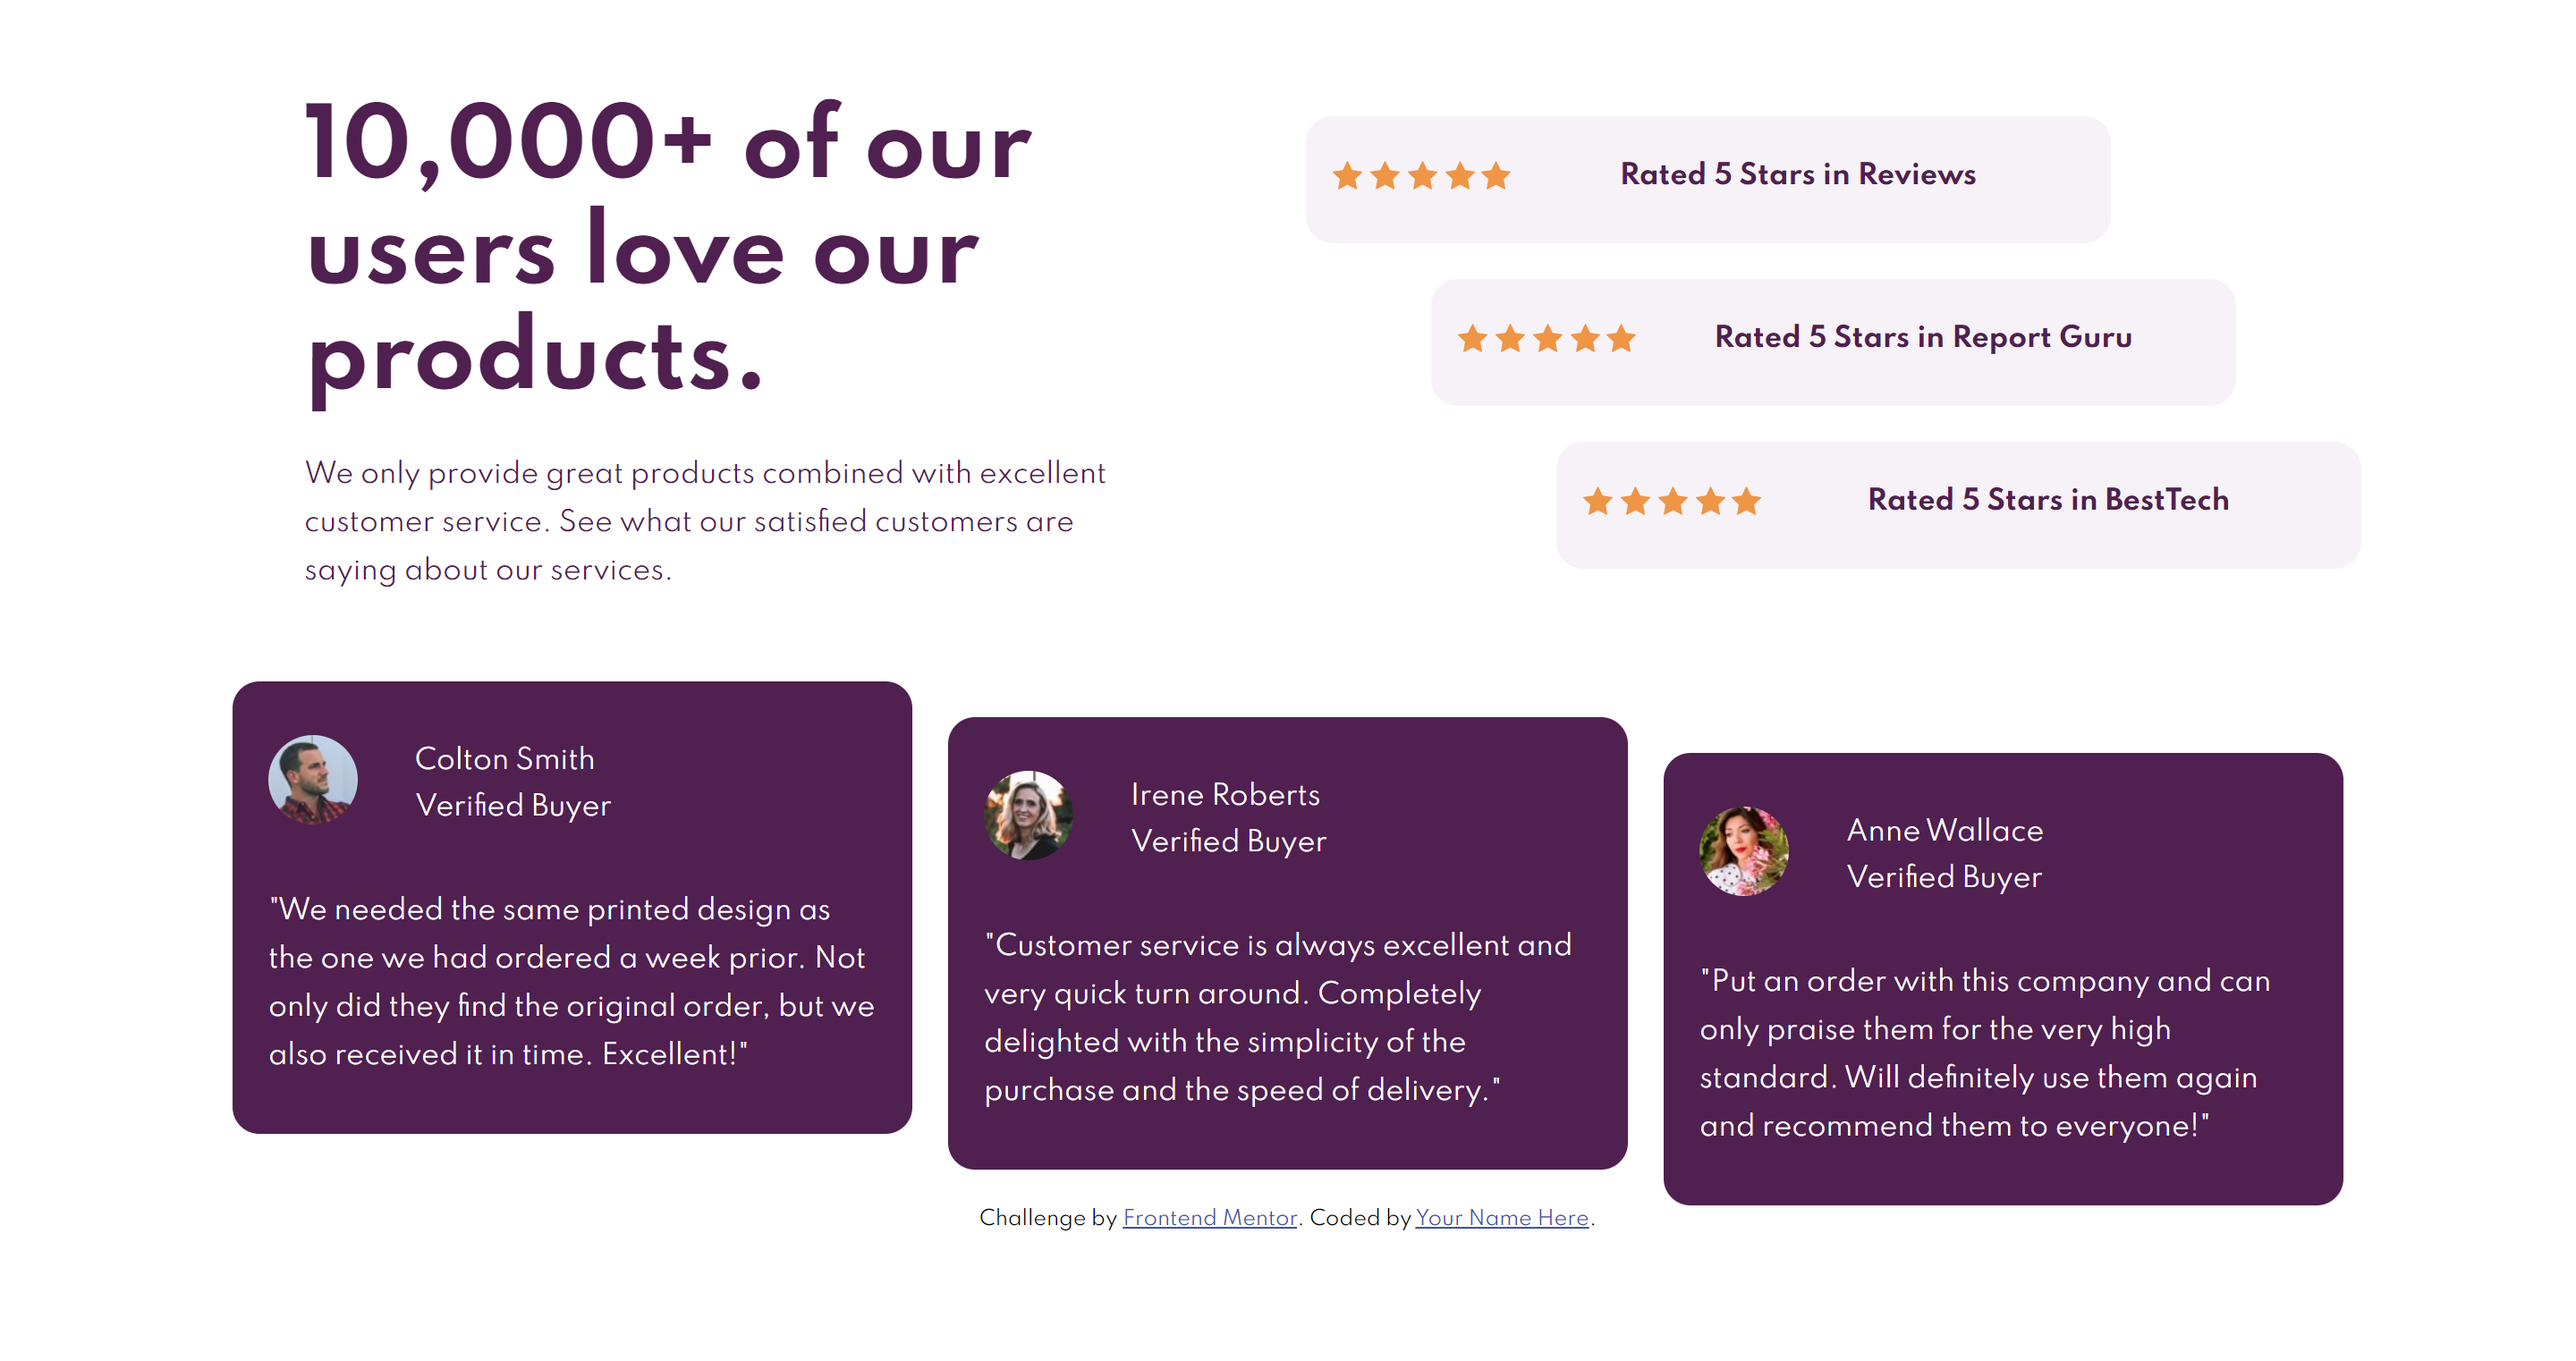
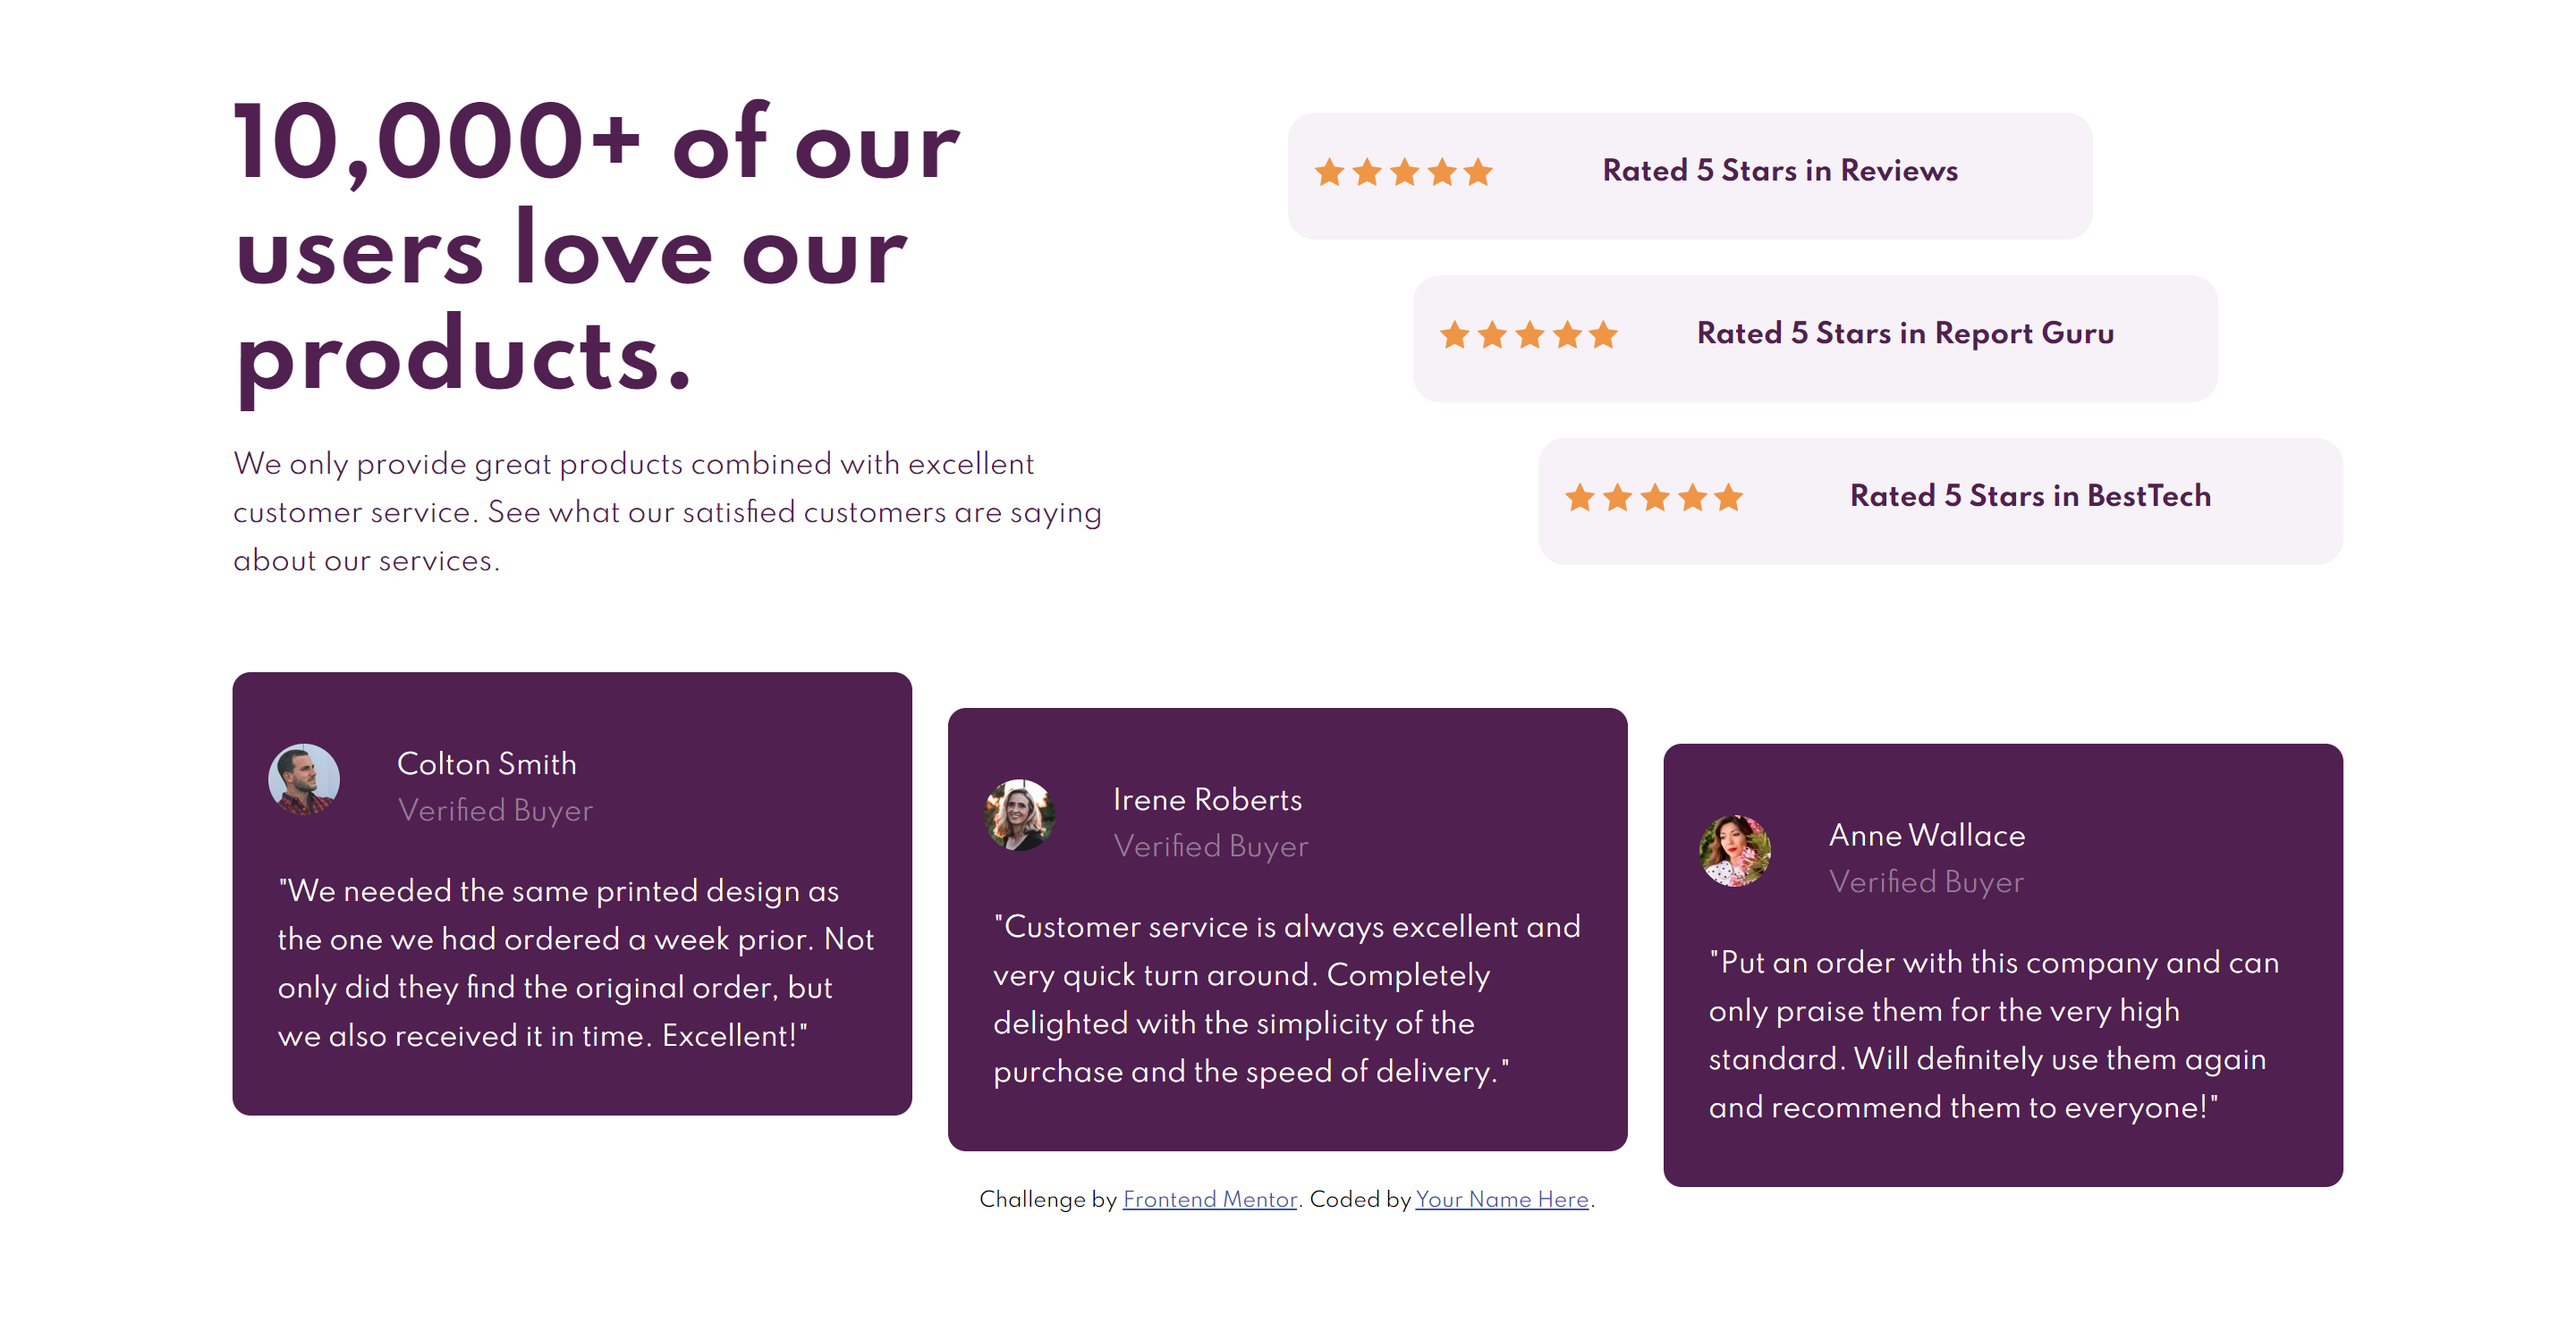
social proof desktop

diff --git a/Stats_preview_card_component/index.html b/Stats_preview_card_component/index.html
@@ -21,27 +21,30 @@
       <div class="card_img">
         <img src="./images/image-header-mobile.jpg" alt="">
       </div>
-      <div class="card_heading">
-        <p>Get <span>insights</span> that help your business grow.</p>
-      </div>
-      <div class="card_content">
-        <p>Discover the benefits of data analytics and make better decisions regarding revenue, customer 
-          experience, and overall efficiency.</p>
-      </div>
-      <div class="numbers_conteiner">
-        <div class="numbers_info">
-          <h2>10k+</h2>
-          <p>companies</p>
+      <div class="content_conteiner">
+        <div class="card_heading">
+          <p>Get <span>insights</span> that help your business grow.</p>
         </div>
-        <div class="numbers_info">
-          <h2>314</h2>
-          <p>templates</p>
+        <div class="card_content">
+          <p>Discover the benefits of data analytics and make better decisions regarding revenue, customer 
+            experience, and overall efficiency.</p>
         </div>
-        <div class="numbers_info">
-          <h2>12m+</h2>
-          <p>queries</p>
+        <div class="numbers_conteiner">
+          <div class="numbers_info">
+            <h2>10k+</h2>
+            <p>companies</p>
+          </div>
+          <div class="numbers_info">
+            <h2>314</h2>
+            <p>templates</p>
+          </div>
+          <div class="numbers_info">
+            <h2>12m+</h2>
+            <p>queries</p>
+          </div>
         </div>
       </div>
+      
     </div>
 
 

diff --git a/social-proof-section-master/style.css b/social-proof-section-master/style.css
@@ -9,6 +9,7 @@
 body {
     font-family: "Spartan";
     font-size: 15px;
+    height: 100%;
 }
 .Heading{
     margin-top: 40px;
@@ -52,29 +53,29 @@ body {
     width: 95%;
     /* width: 350px; */
     margin: 20px auto;
-    border-radius: 15px;
+    border-radius: 10px;
 }
 .card_img{
     display: inline-block;
-    padding: 30px 20px;
+    padding: 40px 20px 25px 20px;
 }
 .card_img img{
     border-radius: 50%;
-    height: 50px;
+    height: 40px;
 }
 .card_p1{
     display: inline-block;
 }
 .card_p1 p, span{
     position: relative;
-    top: -5px;
+    top: 3px;
     padding: 8px;
 }
 .card_p1 span{
     color: hsl(303, 10%, 53%);
 }
 .card_content p{
-    padding: 0 20px 30px 20px;
+    padding: 0 21px 30px 25px;
     line-height: 1.8em;
 }
 
@@ -120,12 +121,15 @@ body {
     .card3 {
         grid-area: card3;
     }
+    .title{
+        padding: 15px 95px 15px 10px;
+    }
     .title h1{
         font-size: 50px;
         text-align: left;
     }
     .content{
-        padding: 5px 65px 5px 50px;
+        padding: 0px 90px 5px 10px;
     }
     .content p{
         text-align: left;
@@ -134,7 +138,7 @@ body {
         display: inline-block;
         width: 450px;
         padding: 25px 15px;
-        margin: 10px;
+        margin: 10px 0;
     }
     .stars{
         float: left;
@@ -157,3 +161,4 @@ body {
         top: 40px;
     }
 
+}

diff --git a/Stats_preview_card_component/style.css b/Stats_preview_card_component/style.css
@@ -17,18 +17,14 @@ body{
     min-height: 100vh;
     font-weight: 700;
 }
-
-
-
-
-
 .card{
     background-color: hsl(244, 38%, 16%);
-    width: 325px;
+    /* width: 90%; */
+    max-width: 325px;
     border-radius: 10px;
     margin: 50px auto;
-    display: flex;
-    flex-direction: column;
+    /* display: flex; */
+    /* flex-direction: column; */
 
 }
 .card_img{
@@ -58,6 +54,7 @@ span{
     text-align: center;
     font-family: "Inter";
     color: hsla(0, 0%, 100%, 0.6);
+    font-weight: 400;
 }
 .numbers_conteiner{
     display: flex;
@@ -82,8 +79,5 @@ span{
 }
 
 @media screen and (min-width: 768px){
-    .card{
-        flex-direction: row;
-    }
 
 }
